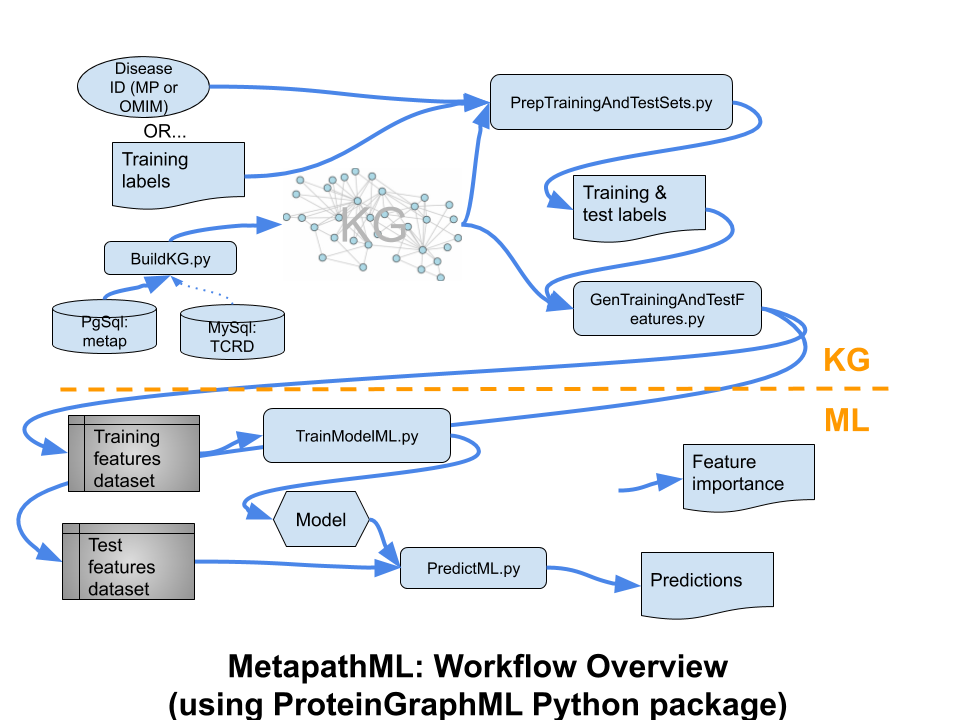
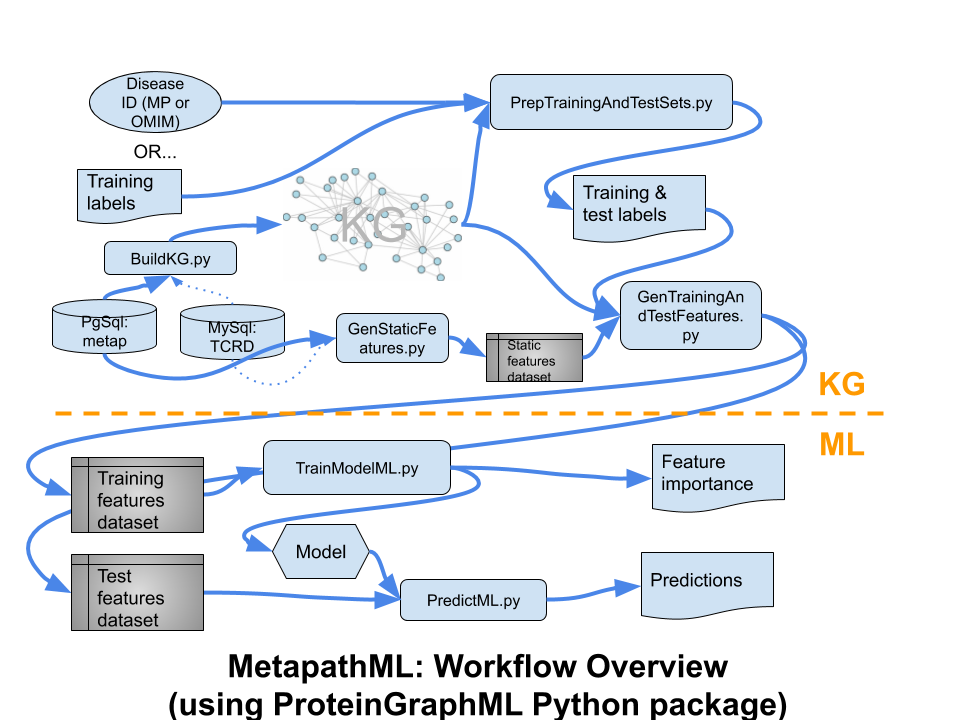
Ok.

diff --git a/README.md b/README.md
@@ -66,7 +66,9 @@ BuildKG_OlegDb.py build --ofile ProteinDisease_GRAPH.pkl --logfile ProteinDiseas
 ### <a name="HowtoStaticFeatures"/>Static Features
 
 `GenStaticFeatures.py` generates 4 files for static features: lincs.tsv, hpa.tsv, gtex.tsv, and ccle.tsv for use by `TrainModelML.py`. Static features are _not_ dependent on training set labels, only the database, 
-so the same TSV files can be reused for all models, and only needs to be re-run if the database changes.
+so the same TSV files can be reused for all models, and only needs to be re-run if
+the database changes.  ___Note: Requires large memory server, approximately 100GB+,
+80GB for this process.___
 
 Command line parameters:
 
